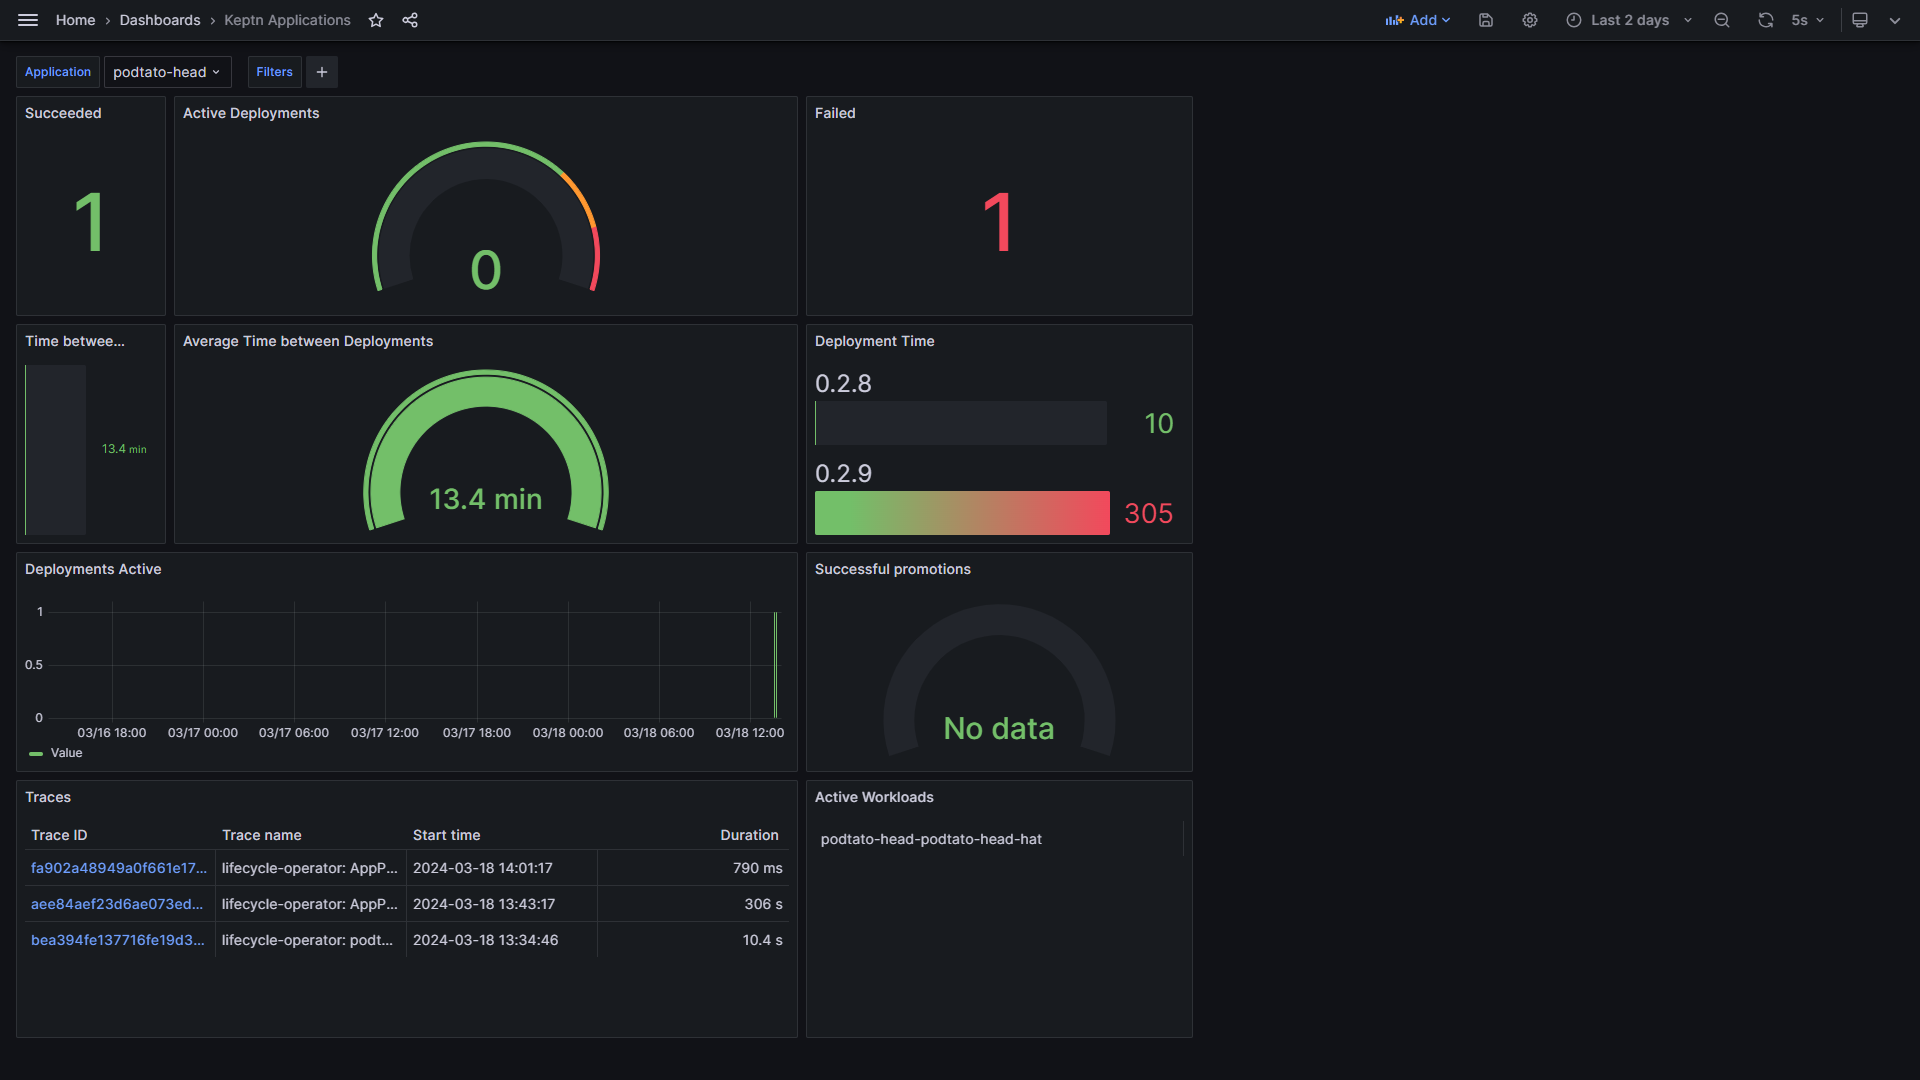
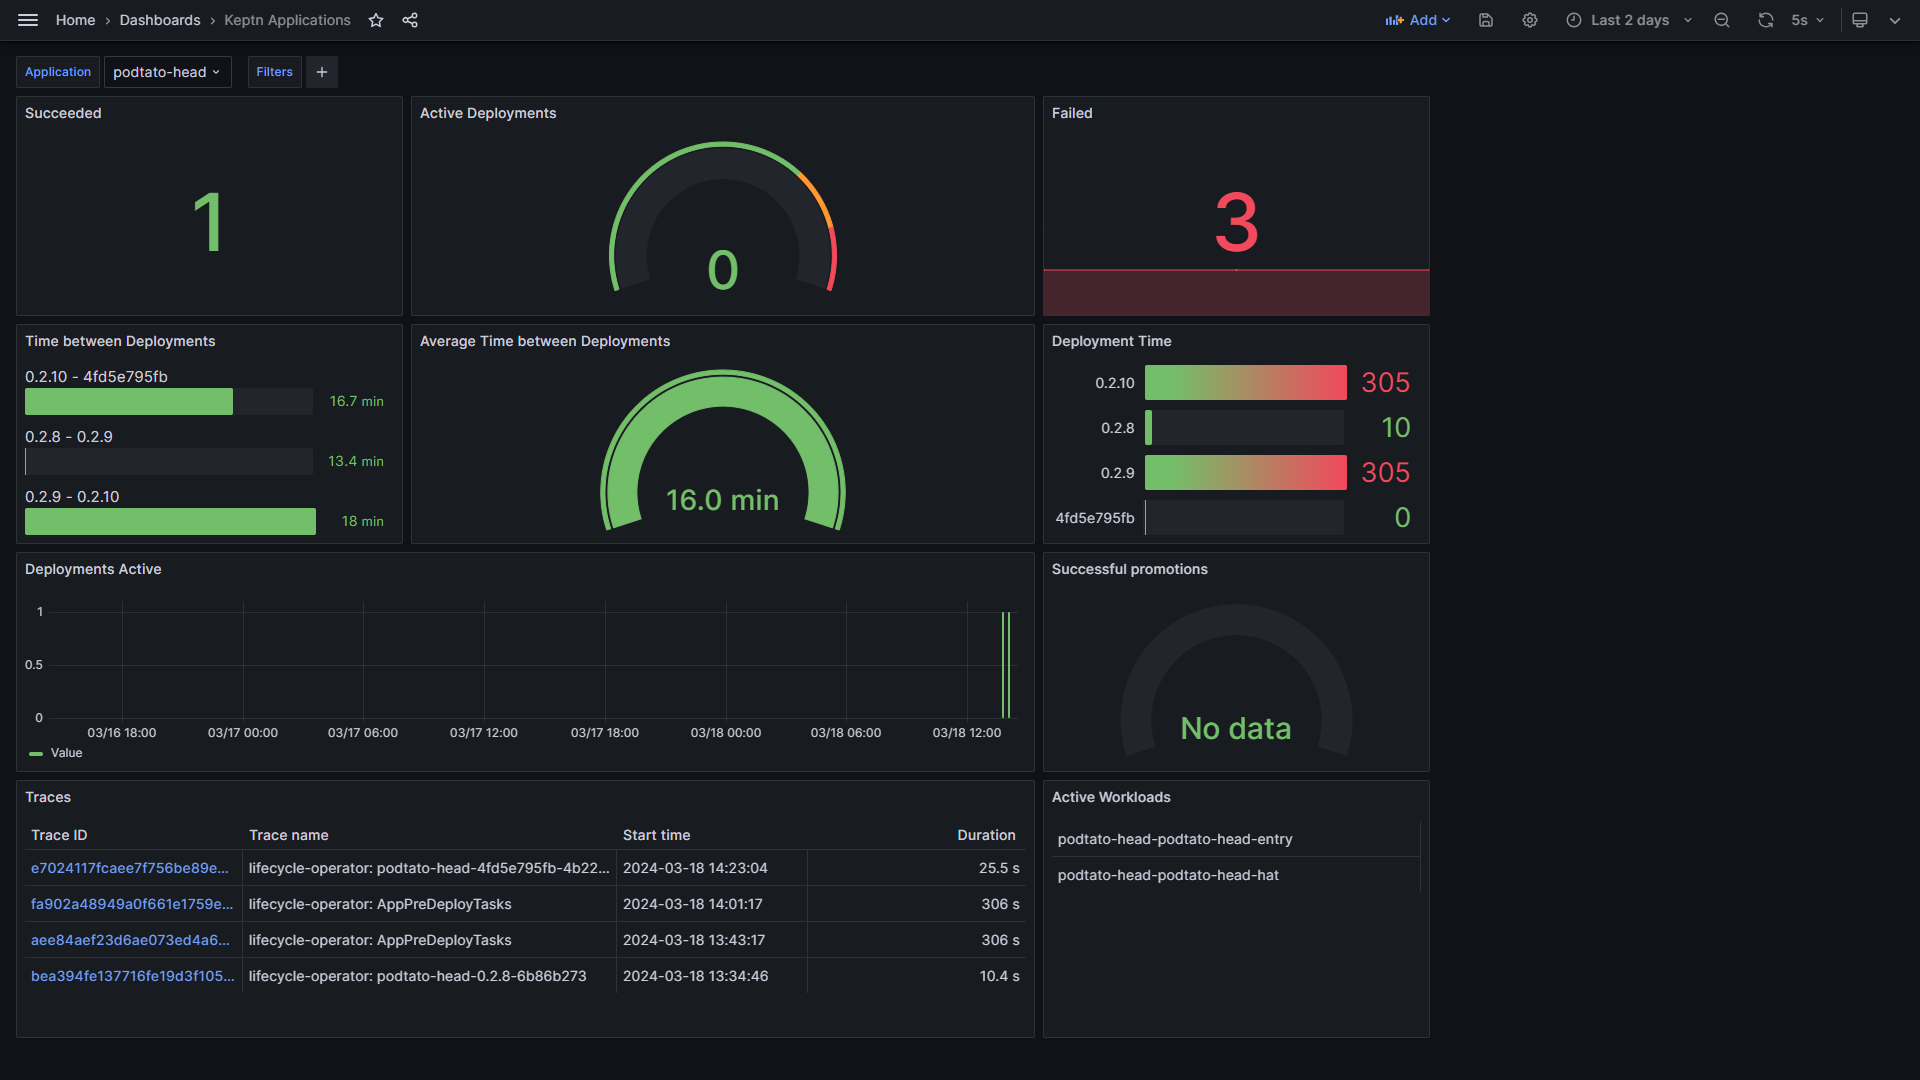
readme update with more images

diff --git a/README.md b/README.md
@@ -15,6 +15,9 @@ ArgoCD showing Podtatehead application
 Jaeger OpenTelemetry Trace in Grafana for the same application
 ![](./images/jaeger_podtatohead_trace.png)
 
+Grafana dashboard with some deployment metrics and access to traces
+![](./images/grafana_dashboard.png)
+
 
 ## Bootstrapping Argo CD
 ```
